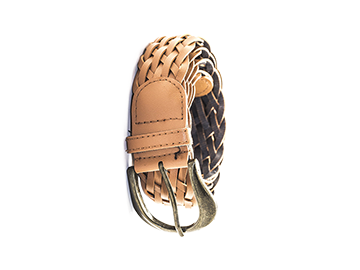
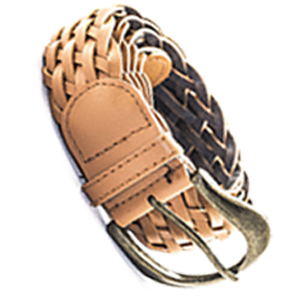
module-4

diff --git a/module-4/index.html b/module-4/index.html
@@ -14,124 +14,124 @@
 
 <body>
   <div class="wrapper">
-  <header class="page-header">
-    <nav class="page-nav ">
-      <a href="#" class="site-logo">
-        <img src="./img/logo/icon-logo.png" alt="logo" width="78" height="21">
-      </a>
+    <header class="page-header">
+      <nav class="page-nav ">
+        <a href="#" class="site-logo">
+          <img src="./img/logo/icon-logo.png" alt="logo" width="78" height="21">
+        </a>
 
-      <ul class="main-nav clearfix">
-        <li>
-          <a href="#">Home</a>
-        </li>
-        <li>
-          <a href="#">About us</a>
-        </li>
-        <li>
-          <a href="#">Page</a>
-        </li>
-        <li>
-          <a href="#">Shop</a>
-        </li>
-        <li>
-          <a href="#">Blog</a>
-        </li>
-        <li>
-          <a href="#">Contact us</a>
-        </li>
-      </ul>
-    </nav>
-  </header>
+        <ul class="main-nav clearfix">
+          <li>
+            <a href="#">Home</a>
+          </li>
+          <li>
+            <a href="#">About us</a>
+          </li>
+          <li>
+            <a href="#">Page</a>
+          </li>
+          <li>
+            <a href="#">Shop</a>
+          </li>
+          <li>
+            <a href="#">Blog</a>
+          </li>
+          <li>
+            <a href="#">Contact us</a>
+          </li>
+        </ul>
+      </nav>
+    </header>
 
 
 
-  <main class="main-content">
-    <h1 class="visually-hidden">Mart main page</h1>
+    <main class="main-content">
+      <h1 class="visually-hidden">Mart main page</h1>
 
-    <!-- FEATURES SECTION -->
-    <section class="features-product clearfix">
-      <h2>features product</h2>
-      <ul class="products clearfix">
-        <li class="products-item ">
-          <a class="link-item" href="#">
-            <img src="./img/product/product1.png" alt="shoes image" class="product-image" width="255" height="282">
-            <p class="product-name item-1">Blue Tshirt</p>
-          </a>
-        </li>
-        <li class="products-item ">
-          <a class="link-item" href="#">
-            <img src="./img/product/product21.png" alt="belt image" class="product-image" width="255" height="282">
-            <p class="product-name item-2">women shirt</p>
-          </a>
-        </li>
-        <li class="products-item ">
-          <a class="link-item" href="#">
-            <img src="./img/product/product9.png" alt=" hat image" class="product-image" width="255" height="282">
-            <p class="product-name item-3">yellow Tshirt</p>
-          </a>
-        </li>
-        <li class="products-item ">
-          <a class="link-item" href="#">
-            <img src="./img/product/product4.png" alt=" handbag image" class="product-image" width="255" height="282">
-            <p class="product-name item-4">cool lingerie</p>
-          </a>
-        </li>
-        <li class="products-item ">
-          <a class="link-item" href="#">
-            <img src="./img/product/product3.png" alt="a bag image" class="product-image" width="255" height="282">
-            <p class="product-name item-5">Blue Tshirt</p>
-          </a>
-        </li>
-        <li class="products-item ">
-          <a class="link-item" href="#">
-            <img src="./img/product/product5.png" alt="belt image" class="product-image" width="255" height="282">
-            <p class="product-name item-6">woman shirt</p>
-          </a>
-        </li>
-        <li class="products-item ">
-          <a class="link-item" href="#">
-            <img src="./img/product/product6.png" alt="shoes image" class="product-image" width="255" height="282">
-            <p class="product-name item-7">yellow Tshirt</p>
-          </a>
-        </li>
-        <li class="products-item ">
-          <a class="link-item" href="#">
-            <img src="./img/product/product8.png" alt="glasses image" class="product-image" width="255" height="282">
-            <p class="product-name item-8">cool lingrie</p>
-          </a>
-        </li>
-      </ul>
-    </section>
+      <!-- FEATURES SECTION -->
+      <section class="features-product clearfix">
+        <h2>features product</h2>
+        <ul class="products clearfix">
+          <li class="products-item ">
+            <a class="link-item" href="#">
+              <img src="./img/product/product1.png" alt="shoes image" class="product-image" width="255" height="282">
+              <p class="product-name item-1">Blue Tshirt</p>
+            </a>
+          </li>
+          <li class="products-item ">
+            <a class="link-item" href="#">
+              <img src="./img/product/product2.png" alt="belt image" class="product-image" width="255" height="282">
+              <p class="product-name item-2">women shirt</p>
+            </a>
+          </li>
+          <li class="products-item ">
+            <a class="link-item" href="#">
+              <img src="./img/product/product9.png" alt=" hat image" class="product-image" width="255" height="282">
+              <p class="product-name item-3">yellow Tshirt</p>
+            </a>
+          </li>
+          <li class="products-item ">
+            <a class="link-item" href="#">
+              <img src="./img/product/product4.png" alt=" handbag image" class="product-image" width="255" height="282">
+              <p class="product-name item-4">cool lingerie</p>
+            </a>
+          </li>
+          <li class="products-item ">
+            <a class="link-item" href="#">
+              <img src="./img/product/product3.png" alt="a bag image" class="product-image" width="255" height="282">
+              <p class="product-name item-5">Blue Tshirt</p>
+            </a>
+          </li>
+          <li class="products-item ">
+            <a class="link-item" href="#">
+              <img src="./img/product/product5.png" alt="belt image" class="product-image" width="255" height="282">
+              <p class="product-name item-6">woman shirt</p>
+            </a>
+          </li>
+          <li class="products-item ">
+            <a class="link-item" href="#">
+              <img src="./img/product/product6.png" alt="shoes image" class="product-image" width="255" height="282">
+              <p class="product-name item-7">yellow Tshirt</p>
+            </a>
+          </li>
+          <li class="products-item ">
+            <a class="link-item" href="#">
+              <img src="./img/product/product8.png" alt="glasses image" class="product-image" width="255" height="282">
+              <p class="product-name item-8">cool lingrie</p>
+            </a>
+          </li>
+        </ul>
+      </section>
 
-    <!-- last News SECTION -->
-    <section class="latest-news">
-      <h2>Latest news</h2>
+      <!-- LATEST NEWS SECTION -->
+      <section class="latest-news">
+        <h2>Latest news</h2>
+        <ul class="news clerfix">
+          <li class="news-item">
+            <img class="news-item-img" src="./img/slide/ipad.jpg" alt="news" width="350" height="262">
+            <h5>Lorem ipsum dolor sit amet consectetur adipisicing elit. Ex, eum?</h5>
+            <p>Lorem ipsum dolor sit amet consectetur adipisicing elit. Id ea quaerat iste illum quos sunt deleniti minus totam
+              inventore modi, vero quod numquam sint ipsa ipsam culpa rem beatae delectus. </p>
+            <button class="more">Read more</button>
+          </li>
+          <li class="news-item">
+            <img class="news-item-img" src="./img/slide/slide1.jpg" alt="news" width="347" height="262">
+            <h5>Lorem ipsum dolor sit amet consectetur adipisicing elit. Ex, eum?</h5>
+            <p>Lorem ipsum dolor sit amet consectetur adipisicing elit. Id ea quaerat iste illum quos sunt deleniti minus totam
+              inventore modi, vero quod numquam sint ipsa ipsam culpa rem beatae delectus. </p>
+            <button class="more">Read more</button>
+          </li>
+          <li class="news-item">
+            <img class="news-item-img" src="./img/slide/product.jpg" alt="news" width="348" height="262">
+            <h5>Lorem ipsum dolor sit amet consectetur adipisicing elit. Ex, eum?</h5>
+            <p>Lorem ipsum dolor sit amet consectetur adipisicing elit. Id ea quaerat iste illum quos sunt deleniti minus totam
+              inventore modi, vero quod numquam sint ipsa ipsam culpa rem beatae delectus. </p>
+            <button class="more">Read more</button>
+          </li>
+        </ul>
+      </section>
+    </main>
 
-      <ul class="news clerfix">
-        <li class="news-item">
-          <img class="news-item-img" src="./img/slide/ipad.jpg"  alt="news" width="350" height="262">
-          <h5>Lorem ipsum dolor sit amet consectetur adipisicing elit. Ex, eum?</h5>
-          <p>Lorem ipsum dolor sit amet consectetur adipisicing elit. Id ea quaerat iste illum quos sunt deleniti minus totam
-            inventore modi, vero quod numquam sint ipsa ipsam culpa rem beatae delectus. </p>
-          <button class="more">Read more</button>
-        </li>
-        <li class="news-item">
-          <img class="news-item-img" src="./img/slide/slide1.jpg"  alt="news" width="350" height="262">
-          <h5>Lorem ipsum dolor sit amet consectetur adipisicing elit. Ex, eum?</h5>
-          <p>Lorem ipsum dolor sit amet consectetur adipisicing elit. Id ea quaerat iste illum quos sunt deleniti minus totam
-            inventore modi, vero quod numquam sint ipsa ipsam culpa rem beatae delectus. </p>
-          <button class="more">Read more</button>
-        </li>
-        <li class="news-item">
-          <img class="news-item-img" src="./img/slide/product.jpg"  alt="news" width="350" height="262">
-          <h5>Lorem ipsum dolor sit amet consectetur adipisicing elit. Ex, eum?</h5>
-          <p>Lorem ipsum dolor sit amet consectetur adipisicing elit. Id ea quaerat iste illum quos sunt deleniti minus totam
-            inventore modi, vero quod numquam sint ipsa ipsam culpa rem beatae delectus. </p>
-          <button class="more">Read more</button>
-        </li>
-      </ul>
-    </section>
-  </main>
   </div>
 </body>
 

diff --git a/module-4/css/styles.css b/module-4/css/styles.css
@@ -38,8 +38,8 @@ img {
 }
 
 img.product-image {
-  max-width: 100%;
-  max-height: 100%;
+  max-width: 75%;
+  max-height: 75%;
   position: absolute;
   top: 50%;
   left: 50%;
@@ -67,16 +67,14 @@ img.product-image {
 h2 {
   margin: 0;
   padding: 0;
- margin-top: 105px;
+  margin-top: 105px;
   font-size: 48px;
   line-height: 114px;
   color: #515151;
   text-transform: uppercase;
- 
 }
 
 h2::after {
-
   content: "";
   display: block;
   margin: 0 auto;
@@ -87,13 +85,15 @@ h2::after {
   margin-bottom: 82px;
 }
 
-
-
 main {
   text-align: center;
 }
 
-/* MAIN NAV SECTION */
+.main-content {
+  height: 1715px;
+}
+
+/*  NAVIGATION SECTION */
 
 .page-nav {
   margin: 0;
@@ -111,7 +111,6 @@ main {
   padding: 0;
   margin-top: 2px;
   text-transform: uppercase;
-  
 }
 
 .main-nav a {
@@ -134,7 +133,7 @@ main-nav a:focus {
   color: #ff0000;
 }
 
-/* MAIN */
+/* MAIN CONTENT */
 
 /* PRODUCTS */
 
@@ -148,7 +147,6 @@ main-nav a:focus {
 }
 
 .products-item {
-  
   float: left;
   width: 255px;
   height: auto;
@@ -161,7 +159,6 @@ main-nav a:focus {
 }
 
 .product-name {
-  
   width: 201px;
   padding: 0 0 0 15px;
   background: rgba(255, 255, 255, 1);
@@ -171,7 +168,6 @@ main-nav a:focus {
 }
 
 .products-item a {
-
   display: block;
   width: 255px;
   height: 322px;
@@ -179,7 +175,6 @@ main-nav a:focus {
 }
 
 .link-item {
- 
   margin: auto;
   padding: 1px;
 }
@@ -193,12 +188,10 @@ main-nav a:focus {
 }
 
 .product-image {
-
   margin: 0px;
 }
 
 .product-name {
-  
   display: block;
   height: 40px;
   float: left;
@@ -261,8 +254,12 @@ main-nav a:focus {
 
 /* NEWS */
 
-.news {
+.latest-news {
+  height: 732px;
+  width: 100%;
+}
 
+.news {
   margin: 0;
   padding: 0;
 }
@@ -306,10 +303,7 @@ main-nav a:focus {
 
 .news-item-img {
   margin-bottom: 14px;
-  
 }
-
-
 
 .more {
   margin: 0;
